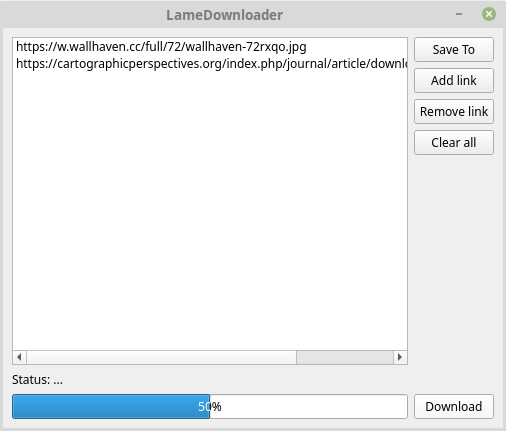
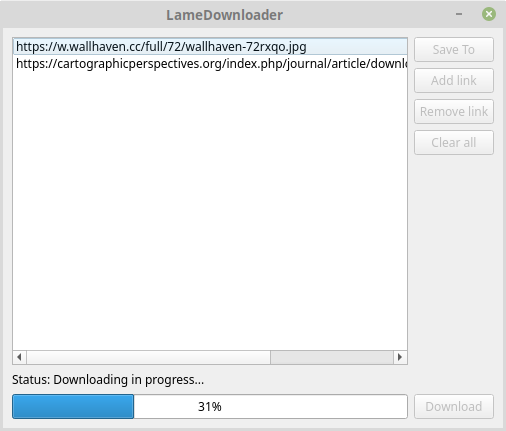
Second commit

diff --git a/gui.py b/gui.py
@@ -2,14 +2,58 @@ from PySide2.QtWidgets import (QMainWindow, QWidget, QVBoxLayout, QHBoxLayout,
                                 QFormLayout, QPushButton, QLineEdit, QMessageBox,
                                QListWidget, QFileDialog, QDialog, QDialogButtonBox,
                                 QLabel, QProgressBar)
-from PySide2.QtCore import Qt
+
+from PySide2.QtCore import Qt, QObject, QThread, Signal
 
 
 import os
 import requests
+import aiohttp
+import asyncio
 
-import concurrent.futures
 
+class Worker(QObject):
+
+    finished = Signal()
+    progress = Signal(int)
+
+    def __init__(self, urls):
+        super(Worker, self).__init__()
+        self.urls = urls
+        self.total_size = []
+        for url in self.urls:
+            url_size = requests.get(url, stream=True).headers['content-length']
+            if url_size is None:
+                url_size = requests.get(url, stream=True).content
+                self.total_size.append(int(len(url_size)))
+            else:
+                self.total_size.append(int(url_size))
+
+        self._total_dl_size = sum(self.total_size)
+        self.file_size = 0
+
+    def download_files(self, url):
+
+        file_name = url.split('/')[-1]
+        file_name = f'{file_name}'
+
+        with open(file_name, 'w+b', buffering=0) as file:
+            print(f"Downloading {file_name}")
+            downloaded_file = requests.get(url, stream=True)
+            for chunk in downloaded_file.iter_content(8192):
+                self.file_size += len(chunk)
+                file.write(chunk)
+                done = int(100 * self.file_size / self._total_dl_size)
+                print("\r[%s%s]" % ('=' * done, ' ' * (100 - done)), end="")
+                self.progress.emit(done)
+            return print(f'{file_name} with {(self.file_size/1e3).__round__(2)} kB is downloaded...')
+
+
+    def run(self):
+
+        for url in self.urls:
+            self.download_files(url)
+        self.finished.emit()
 
 class MainWindow(QMainWindow):
 
@@ -69,8 +113,7 @@ class MainWindow(QMainWindow):
         self.download_btn.clicked.connect(self.download)
 
 
-
-        self.directory = '/home/machine/Downloads'
+        self.directory = os.path.expanduser('~/Downloads')
 
     # GUI related functions
 
@@ -103,7 +146,7 @@ class MainWindow(QMainWindow):
 
 
     def save_to(self):
-        self.directory = QFileDialog.getExistingDirectory(self, "Save To Directory", "/home/machine/Downloads",
+        self.directory = QFileDialog.getExistingDirectory(self, "Save To Directory", self.directory,
                                                      QFileDialog.ShowDirsOnly|QFileDialog.DontResolveSymlinks)
         return self.directory
 
@@ -119,40 +162,38 @@ class MainWindow(QMainWindow):
 
     def download(self):
         os.chdir(self.directory)
-        self.progress_list_message.setText("Status: ...")
 
         if len(self.urls) == 0:
             QMessageBox.critical(self, "Error", "Please add links for download!")
         else:
-            with concurrent.futures.ThreadPoolExecutor() as executor:
-                executor.map(self.download_files, self.urls)
-
-            self.progress_list_message.setText("Status: Files are downloaded!")
-
-
-    # Download function
-
-    def download_files(self, url):
-        downloaded_file = requests.get(url).content
-
-        file_name = url.split('/')[-1]
-        file_name = f'{file_name}'
-
-        value = 100 / self.list_widget.count()
-        try:
-            with open(file_name, 'w+b', buffering=0) as file:
-                file.write(downloaded_file)
-                file.flush()
-                file.close()
-
-            self.progress_counter.append(value)
-            self.progress_bar.setValue(sum(self.progress_counter))
-        finally:
-            message = f'Status: {file_name} is downloaded...'
-            self.progress_list_message.setText(message)
-
-            return (f'{file_name} is downloaded...')
-
+            self.thread = QThread()
+            # Step 3: Create a worker object
+            self.worker = Worker(self.urls)
+            # Step 4: Move worker to the thread
+            self.worker.moveToThread(self.thread)
+            # Step 5: Connect signals and slots
+            self.thread.started.connect(self.worker.run)
+            self.worker.finished.connect(self.thread.quit)
+            self.worker.finished.connect(self.worker.deleteLater)
+            self.thread.finished.connect(self.thread.deleteLater)
+            # Step 6: Start the thread
+            self.thread.start()
+            # Step 7: Disable buttons
+            self.save_to_btn.setEnabled(False)
+            self.add_link_btn.setEnabled(False)
+            self.remove_link_btn.setEnabled(False)
+            self.clear_all_btn.setEnabled(False)
+            self.download_btn.setEnabled(False)
+            self.progress_bar.setValue(0)
+            # Step 8: Connect signals
+            self.worker.progress.connect(self.progress_list_message.setText("Status: Downloading in progress..."))
+            self.worker.progress.connect(self.progress_bar.setValue)
+            self.thread.finished.connect(lambda: self.save_to_btn.setEnabled(True))
+            self.thread.finished.connect(lambda: self.add_link_btn.setEnabled(True))
+            self.thread.finished.connect(lambda: self.remove_link_btn.setEnabled(True))
+            self.thread.finished.connect(lambda: self.clear_all_btn.setEnabled(True))
+            self.thread.finished.connect(lambda: self.download_btn.setEnabled(True))
+            self.worker.finished.connect(lambda: self.progress_list_message.setText("Status: Downloading is finished!"))
 
 
 class AddLinkDialog(QDialog):
@@ -183,10 +224,33 @@ class AddLinkDialog(QDialog):
     def accept(self):
         """Accept the data provided through the dialog."""
         self.data = None
+        loop = asyncio.get_event_loop()
         if not self.add_link_form.text():
             QMessageBox.critical(self, "Error", "You must provide link!")
             return
+        # Added check of link
+        elif loop.run_until_complete(link_check(self.add_link_form.text())) > 400 and \
+                loop.run_until_complete(link_check(self.add_link_form.text())) < 500:
+            QMessageBox.critical(self, "Error", "Link is invalid!\nPlease check link and input correct one.")
+            return
+        # Link check done
+
+        ### Example with requests significantly slower ###
+        # elif requests.get(self.add_link_form.text()).status_code > 400 and \
+        #         requests.get(self.add_link_form.text()).status_code < 500:
+        #     QMessageBox.critical(self, "Error", "Link is invalid!\nPlease check link and input correct one.")
+        #     return
+
         self.data = self.add_link_form.text()
         super().accept()
 
 
+async def link_check(url):
+
+    async with aiohttp.ClientSession() as session:
+        async with session.get(url) as response:
+
+            print("Status:", response.status)
+            print("Content-type:", response.headers['content-type'])
+
+    return response.status
